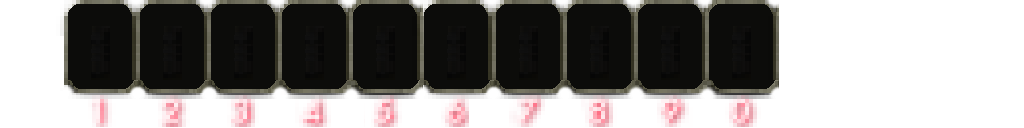
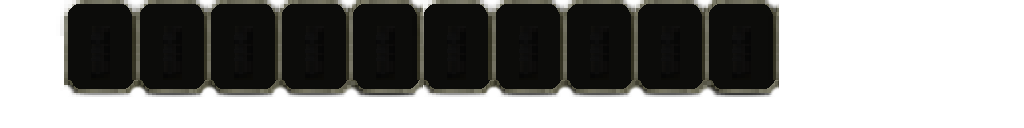
work in progress
Former-commit-id: 59a6c51096c8bd21d4f7f4b9af89ac30f1e6e37b
Former-commit-id: 05a7b21b155b3fdf9b49af24d83bda460a4e7b94

Changed region(s): [[0.4375, 0.75, 0.75, 1.0], [0.0938, 0.75, 0.4062, 1.0]]

diff --git a/src/wid_player_action.c b/src/wid_player_action.c
@@ -343,7 +343,7 @@ wid_player_action_button_joy_down (widp w,
 static void wid_player_action_create (thing_statsp s, int fast)
 {
     double left_ball_offset = -0.07;
-    double right_ball_offset = 0.055;
+    double right_ball_offset = 0.045;
 
     if (wid_player_action) {
         return;
@@ -423,8 +423,9 @@ static void wid_player_action_create (thing_statsp s, int fast)
         wid_set_tilename(w, tmp);
     }
 
+    widp left_ball_squiggles;
     {
-        widp w =
+        widp w = left_ball_squiggles = 
             wid_new_container(wid_player_action, 
                               "wid player_stats container");
 
@@ -527,8 +528,10 @@ static void wid_player_action_create (thing_statsp s, int fast)
         }
     }
 
+    widp left_ball_stats;
+
     {
-        widp w =
+        widp w = left_ball_stats = 
             wid_new_square_button(wid_player_action, 
                               "wid player_stats container");
 
@@ -555,6 +558,8 @@ static void wid_player_action_create (thing_statsp s, int fast)
 
         if (stats_get_hp(s) <= THING_MIN_HEALTH) {
             wid_hide(left_ball, 0);
+            wid_hide(left_ball_stats, 0);
+            wid_hide(left_ball_squiggles, 0);
         }
 
         static int last_hp;
@@ -679,7 +684,7 @@ static void wid_player_action_create (thing_statsp s, int fast)
     {
         double x;
         double max_across = 10.0;
-        double border_left = 0.065;
+        double border_left = 0.06;
         double border_right = 0.24;
         double dx = (1.0 - (border_left + border_right)) / max_across;
 
@@ -722,6 +727,34 @@ static void wid_player_action_create (thing_statsp s, int fast)
 
             wid_set_on_joy_down(w, wid_player_action_button_joy_down);
 
+            {
+                widp w = 
+                    wid_new_container(wid_item_bar, "inventory shortcut");
+
+                tl.y += 0.25;
+                br.y += 0.25;
+
+                wid_set_tl_br_pct(w, tl, br);
+
+                wid_raise(w);
+
+                color c = WHITE;
+                c.a = 0;
+
+                wid_set_color(w, WID_COLOR_TEXT, WHITE);
+                wid_set_color(w, WID_COLOR_BG, c);
+                wid_set_color(w, WID_COLOR_TL, BLACK);
+                wid_set_color(w, WID_COLOR_BR, BLACK);
+                wid_set_no_shape(w);
+
+                char tmp[40];
+                snprintf(tmp, sizeof(tmp)-1, "%d", i);
+                wid_set_text(w, tmp);
+
+                wid_set_text_bot(w, true);
+                wid_set_text_outline(w, true);
+                wid_set_font(w, med_font);
+            }
             i++;
         }
     }

diff --git a/src/wid_player_inventory.c b/src/wid_player_inventory.c
@@ -145,16 +145,18 @@ void wid_player_inventory_button_style (widp w,
     if (player && action_bar_item && 
         (index == stats_get_action_bar_index(s))) {
         color c = RED;
-        c.a = 200;
-        wid_scaling_to_pct_in(w, 1.0, 1.2, 2500, 1000);
         wid_set_color(w, WID_COLOR_TL, c);
         wid_set_color(w, WID_COLOR_BR, c);
         wid_set_rounded_small(w);
-        wid_set_bevel(w, 3);
+        wid_set_bevel(w, 4);
     }
 
     wid_set_thing_template(w, tp);
-    wid_blit_scale_immediate(w, 1.5);
+
+    /*
+     * To have the item appear a bit oversized but it obscure item counts.
+     */
+//    wid_blit_scale_immediate(w, 1.5);
 
     int quantity = item.quantity;
     int quality = item.quality;
@@ -192,8 +194,8 @@ void wid_player_inventory_button_style (widp w,
         wid_set_bevelled(wid_bar, true);
         wid_set_bevel(wid_bar, 2);
 
-        fpoint tl = {0.1f, 0.8f};
-        fpoint br = {0.9f, 0.9f};
+        fpoint tl = {0.1f, 0.85f};
+        fpoint br = {0.9f, 1.0f};
 
         br.x = (0.9 / ((float)THING_ITEM_QUALITY_MAX) )
                     * ((double)quality);

diff --git a/src/wid_dead.c b/src/wid_dead.c
@@ -237,7 +237,7 @@ static void wid_dead_create (const char *name,
 
     widp w = wid_gravestone = wid_new_window("dead");
     fpoint tl = { 0.0, 0.0 };
-    fpoint br = { 0.25, 0.5 };
+    fpoint br = { 0.30, 0.6 };
 
     wid_set_tl_br_pct(w, tl, br);
 
@@ -301,7 +301,7 @@ static void wid_dead_create (const char *name,
 
     static uint32_t gravestone_appear_delay = 1000;
 
-    wid_move_to_pct_in(w, -0.02, 0.55, gravestone_appear_delay);
+    wid_move_to_pct_in(w, -0.02, 0.45, gravestone_appear_delay);
 
     action_timer_create(
             &wid_timers,

diff --git a/src/resource.c b/src/resource.c
@@ -2956,16 +2956,6 @@ static uint8_t resource_init_last (void *context)
 
 uint8_t resource_init (void)
 {
-#if 0
-    if (tex_load("data/gfx/window_rock.png", "window_rock") == 0) {
-        DIE("tex init");
-    }
-#endif
-
-    if (tex_load("data/gfx/window_gothic.png", "window_gothic") == 0) {
-        DIE("tex init");
-    }
-
     if (tex_load("data/gfx/window_gothic_wide.png", "gothic_wide") == 0) {
         DIE("tex init");
     }
